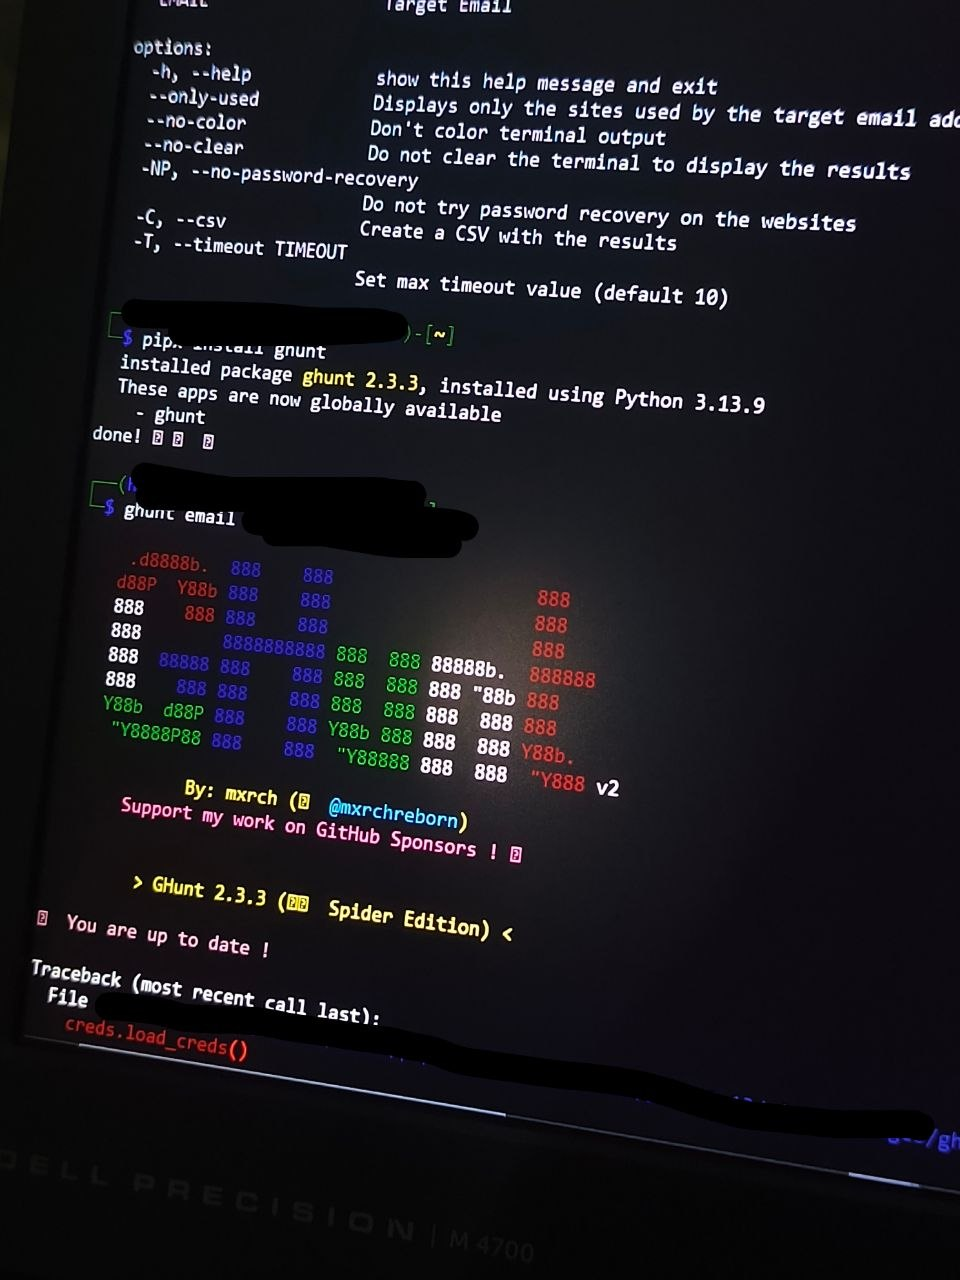
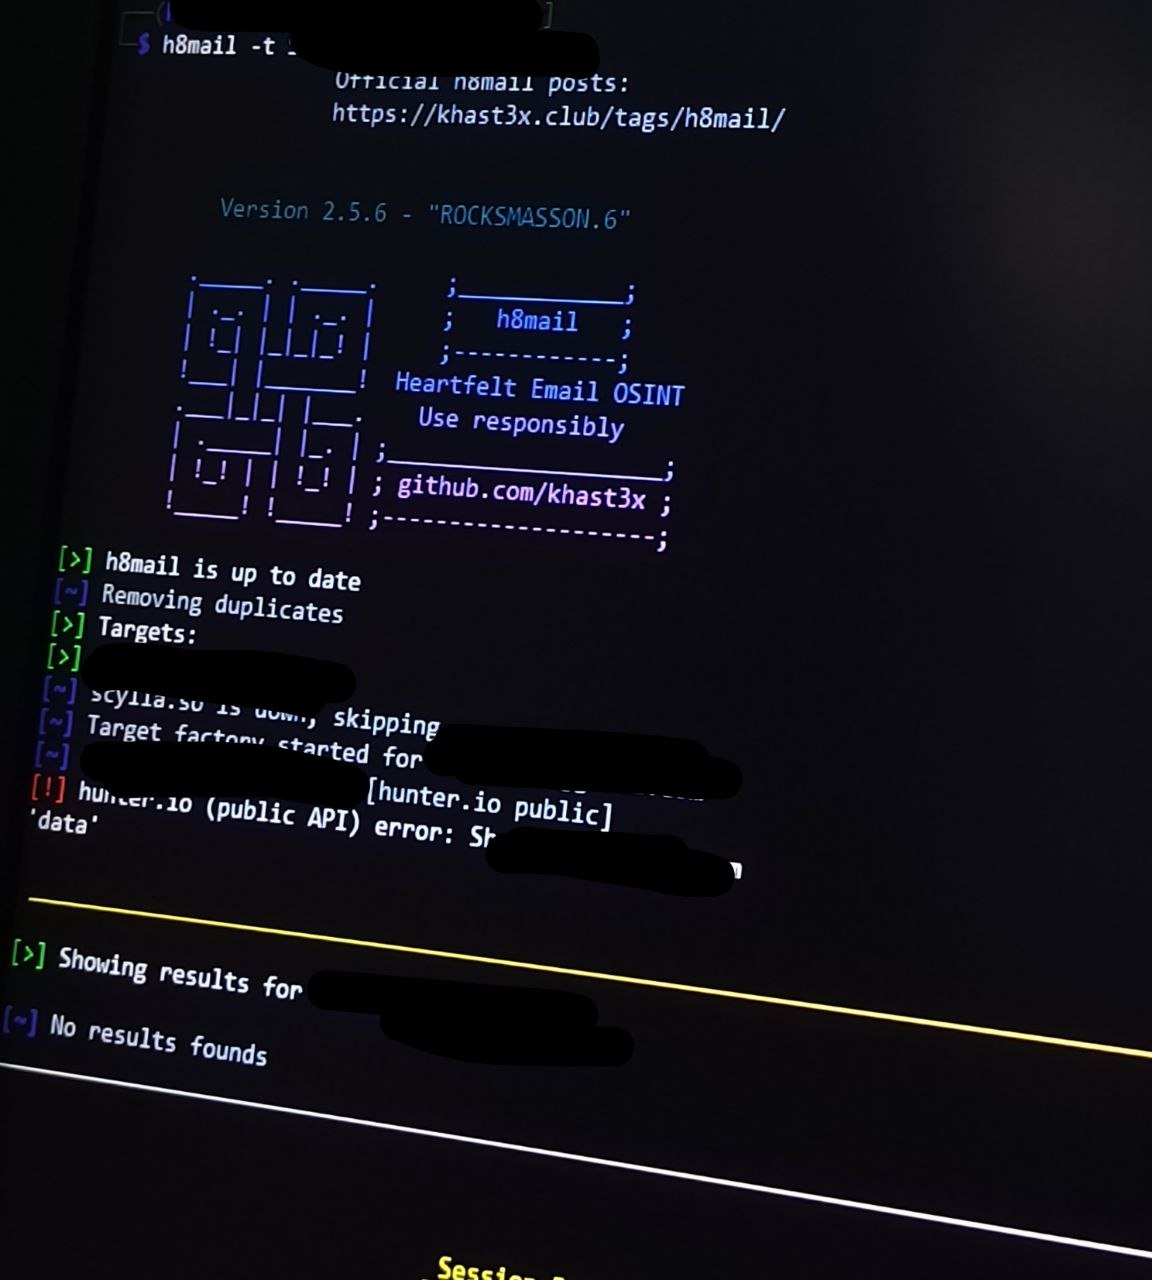
minor bug again!!

diff --git a/js/main.js b/js/main.js
@@ -474,7 +474,7 @@ document.querySelectorAll('a[href^="#"]').forEach(anchor => {
 
   btn.addEventListener('click', e => {
     e.stopPropagation();
-    if (!isDragging) isOpen ? closeArc() : openArc();
+    isOpen ? closeArc() : openArc();
   });
 
   backdrop.addEventListener('click', closeArc);
@@ -577,127 +577,6 @@ document.querySelectorAll('a[href^="#"]').forEach(anchor => {
     document.getElementById('at-font-label').textContent = prefs.fontSize + '%';
     savePrefs();
   });
-
-  /* ── DRAG LOGIC ── */
-  let isDragging = false;
-  let dragStartX, dragStartY, rootStartX, rootStartY, dragMoved;
-
-  function getPos() {
-    const s = root.style;
-    return {
-      x: parseInt(s.right  || '28', 10),
-      y: parseInt(s.bottom || '80', 10),
-    };
-  }
-
-  function onDragStart(e) {
-    const clientX = e.touches ? e.touches[0].clientX : e.clientX;
-    const clientY = e.touches ? e.touches[0].clientY : e.clientY;
-    dragStartX  = clientX;
-    dragStartY  = clientY;
-    const pos   = getPos();
-    rootStartX  = pos.x;
-    rootStartY  = pos.y;
-    dragMoved   = false;
-    isDragging  = false;
-
-    document.addEventListener('mousemove', onDragMove, { passive: false });
-    document.addEventListener('mouseup',   onDragEnd);
-    document.addEventListener('touchmove', onDragMove, { passive: false });
-    document.addEventListener('touchend',  onDragEnd);
-  }
-
-  function onDragMove(e) {
-    const clientX = e.touches ? e.touches[0].clientX : e.clientX;
-    const clientY = e.touches ? e.touches[0].clientY : e.clientY;
-    const dx = clientX - dragStartX;
-    const dy = clientY - dragStartY;
-
-    if (!isDragging && (Math.abs(dx) > 12 || Math.abs(dy) > 12)) {
-      isDragging = true;
-      dragMoved  = true;
-      root.classList.add('is-dragging');
-      closeArc();
-    }
-
-    if (!isDragging) return;
-    e.preventDefault();
-
-    // Compute new right/bottom (invert dx/dy since we use right/bottom)
-    let newRight  = rootStartX - dx;
-    let newBottom = rootStartY - dy;
-
-    // Clamp inside viewport
-    const maxRight  = window.innerWidth  - 54 - 8;
-    const maxBottom = window.innerHeight - 54 - 8;
-    newRight  = Math.max(8, Math.min(newRight,  maxRight));
-    newBottom = Math.max(8, Math.min(newBottom, maxBottom));
-
-    root.style.right  = newRight  + 'px';
-    root.style.bottom = newBottom + 'px';
-    root.style.left   = 'auto';
-    root.style.top    = 'auto';
-  }
-
-  function onDragEnd() {
-    document.removeEventListener('mousemove', onDragMove);
-    document.removeEventListener('mouseup',   onDragEnd);
-    document.removeEventListener('touchmove', onDragMove);
-    document.removeEventListener('touchend',  onDragEnd);
-
-    if (isDragging) {
-      // Snap to nearest edge
-      const rect   = root.getBoundingClientRect();
-      const cx     = rect.left + 27;
-      const cy     = rect.top  + 27;
-      const snapX  = cx < window.innerWidth  / 2 ? 8 : window.innerWidth  - 54 - 8;
-      const snapY  = cy < window.innerHeight / 2 ? 8 : window.innerHeight - 54 - 8;
-
-      root.classList.remove('is-dragging');
-      root.style.transition = 'right 0.3s cubic-bezier(0.34,1.56,0.64,1), bottom 0.3s cubic-bezier(0.34,1.56,0.64,1), left 0.3s, top 0.3s';
-
-      // Snap X — left atau right edge je
-      if (cx < window.innerWidth / 2) {
-        root.style.left  = '8px';
-        root.style.right = 'auto';
-      } else {
-        root.style.right = '8px';
-        root.style.left  = 'auto';
-      }
-
-      // Snap Y — bebas ikut posisi drag, clamp dalam viewport
-      const clampedBottom = Math.max(8, Math.min(
-        window.innerHeight - 54 - 8,
-        window.innerHeight - cy - 27
-      ));
-      root.style.bottom = clampedBottom + 'px';
-      root.style.top    = 'auto';
-
-      setTimeout(() => { root.style.transition = ''; }, 350);
-
-      // Save position
-      localStorage.setItem('at-pos', JSON.stringify({
-        right:  root.style.right,
-        bottom: root.style.bottom,
-        left:   root.style.left,
-        top:    root.style.top,
-      }));
-    }
-
-    setTimeout(() => { isDragging = false; }, 10);
-  }
-
-  btn.addEventListener('mousedown',  onDragStart);
-  btn.addEventListener('touchstart', onDragStart, { passive: true });
-
-  // Restore saved position
-  const savedPos = JSON.parse(localStorage.getItem('at-pos') || 'null');
-  if (savedPos) {
-    root.style.right  = savedPos.right  || '';
-    root.style.bottom = savedPos.bottom || '';
-    root.style.left   = savedPos.left   || '';
-    root.style.top    = savedPos.top    || '';
-  }
 
   // Close arc on ESC
   document.addEventListener('keydown', e => {
@@ -838,6 +717,9 @@ document.querySelectorAll('a[href^="#"]').forEach(anchor => {
         'images/linux1.jpg',
         'images/linux2.jpg',
         'images/linux3.jpg',
+        'images/linux4.jpg',
+        'images/linux5.jpg',
+        'images/linux6.jpg',
       ],
       links: [
         /* projek akademik — takde live link, boleh letak PDF report kalau ada */
